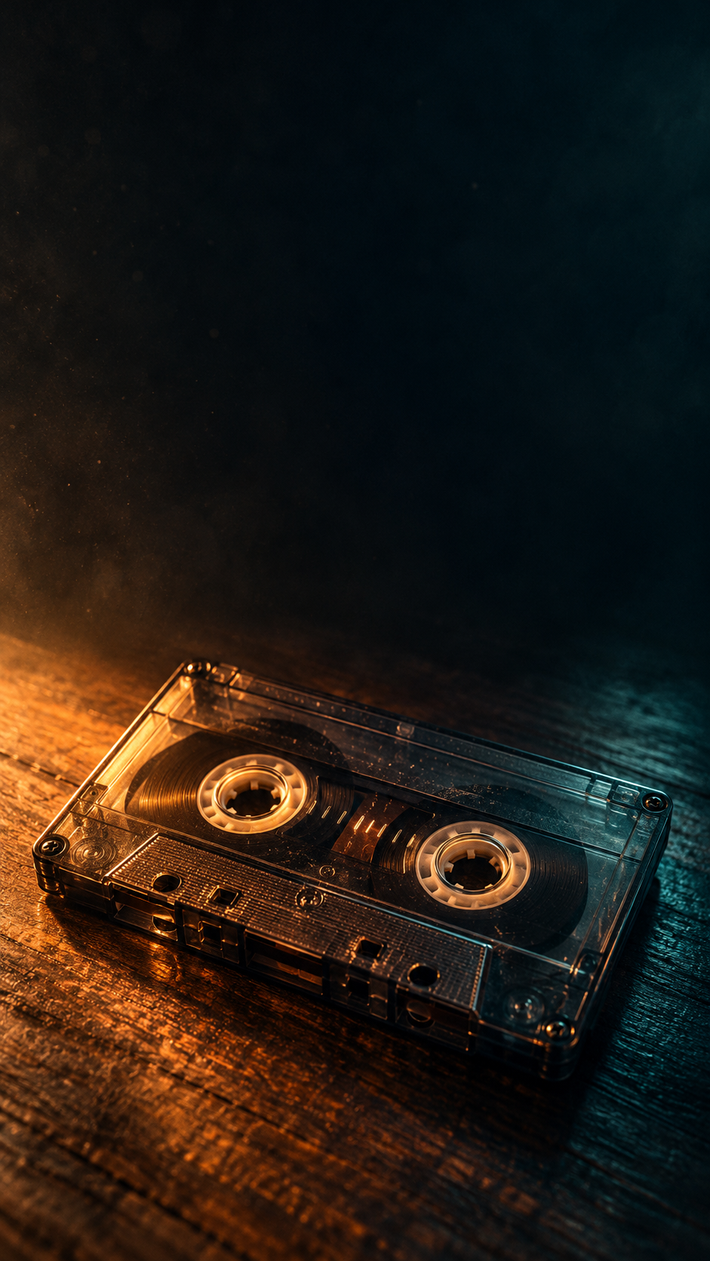
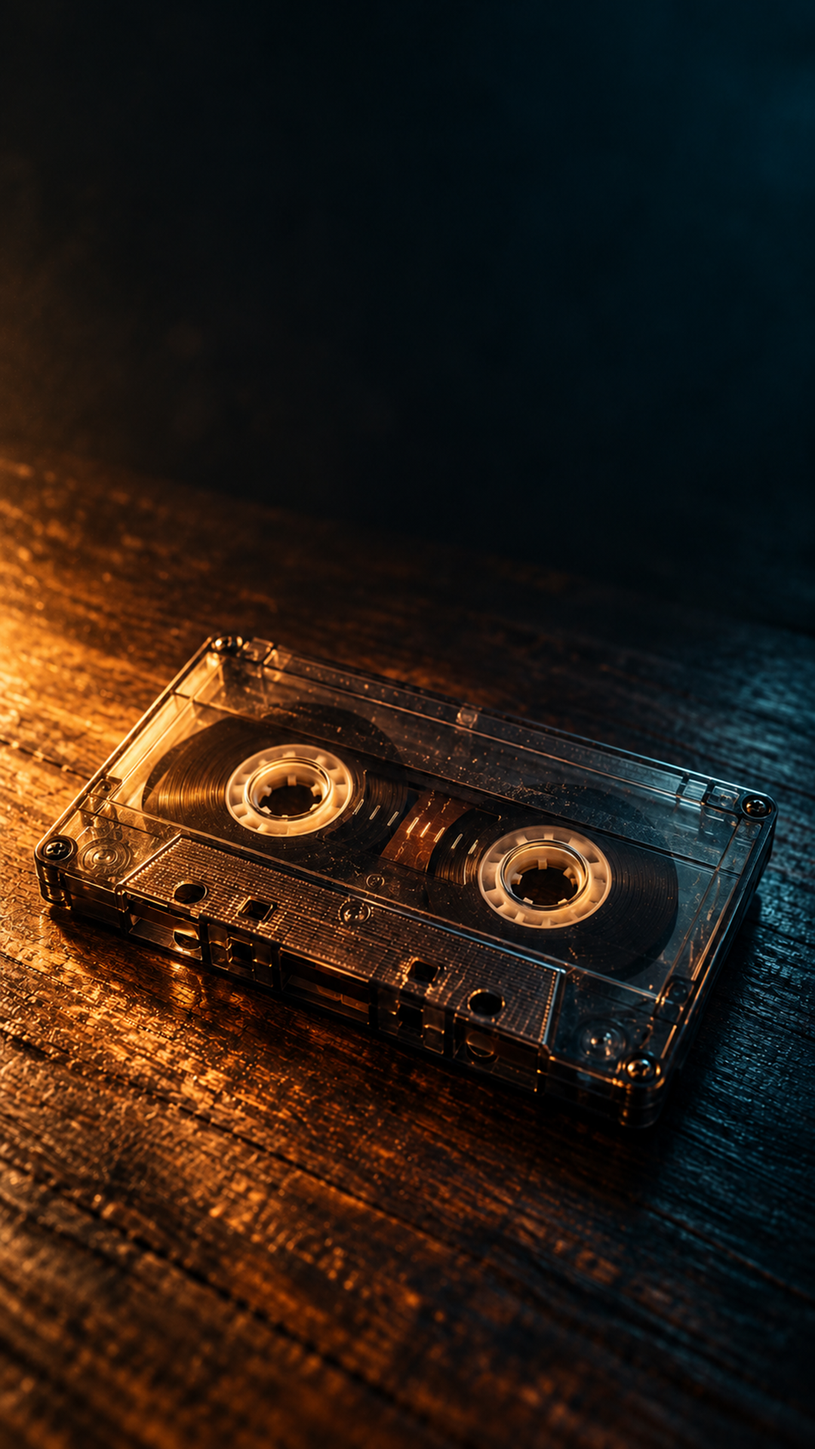
Atualiza seis artes Golden e identifica a versão 2.9.4

diff --git a/app/main.js b/app/main.js
@@ -52,7 +52,7 @@ function catalog(){return catalogView(state,{esc,btn,input,select,options,usageO
 function production(){if(!state.active){return `<div class="actions">${btn('collections','Preparar coletânea','','secondary')}</div><p class="lead">Retome qualquer etapa. Cada versão mantém seus próprios arquivos e publicações.</p>${state.productions.length?`<div class="grid">${state.productions.slice().reverse().map(p=>{const s=songOf(p);return `<article class="production-card"><span class="tag">V${p.version} · ${STATUS[p.status]}</span><h3>${esc(s.title)}</h3><p>${esc(s.artist)} · ${p.versionYear||s.year}</p><small>${assetsOf(p.id).length} arquivos · ${pubsOf(p.id).length} publicações</small><div class="actions">${btn('open-production','Abrir produção','data-id="'+p.id+'"','small')}</div></article>`;}).join('')}</div>`:empty('Ainda não há produções. Escolha uma música no catálogo.')}`;}
 const p=state.productions.find(x=>x.id===state.active);if(!p)return empty('Produção não encontrada.');const s=songOf(p),files=assetsOf(p.id);return `<div class="breadcrumbs">${btn('go-production','← Todas as produções','','link')} / ${esc(p.id.slice(0,8))} · V${p.version}</div><div class="section-head"><div><h2>${esc(s.title)}</h2><p class="muted">${esc(s.artist)} · ${s.year} <small>(${esc(s.yearMeaning||'ano informado')})</small></p></div><div class="actions">${btn('cover-production','Criar capa','data-id="'+p.id+'"')}${btn('new-version','Criar nova versão','data-id="'+p.id+'"','secondary')}${btn('cancel-production','Cancelar / liberar','data-id="'+p.id+'"','secondary')}</div></div><div class="steps">${['Escolha','Capa','Mídias','Edição','Revisão','Publicação','Acervo'].map((v,i)=>`<span class="${i<=Math.min(p.status,6)?'on':''}">${i+1}. ${v}</span>`).join('')}</div><form id="production-form" class="panel"><div class="form-grid">${select('stage','Etapa',Object.fromEntries(STATUS.map((v,i)=>[i,v])),p.status)}${input('versionYear','Ano da versão usada na capa',p.versionYear||s.year,'number','min="1960" max="2100" required')}${input('plannedDate','Data de produção planejada',p.plannedDate||today(),'date')}<label class="field">Observações / roteiro<textarea name="notes" id="notes">${esc(p.notes||'')}</textarea></label></div><small>As alterações são salvas automaticamente neste navegador.</small><div class="actions">${btn('save-production','Salvar agora','','small')}${btn('export-production','Exportar pacote para edição','data-id="'+p.id+'"','secondary small')}${btn('folder-manifest','Ver estrutura de pastas','data-id="'+p.id+'"','secondary small')}</div></form><section class="panel"><div class="section-head"><h2>Materiais e arquivos</h2>${btn('assemble-video','Montar vídeo','data-id="'+p.id+'"')}${btn('replace-clip','Substituir clipe','data-id="'+p.id+'"','secondary small')}${btn('source-import','Importar link / materiais locais','data-id="'+p.id+'"','secondary small')}${btn('approve-review','Registrar revisão','data-id="'+p.id+'"','secondary small')} </div><p class="muted">Anexos abaixo ficam neste navegador. Clipes guardados no serviço local aparecem em Montar vídeo ou Substituir clipe.</p><label class="field">Tipo do material<select id="asset-role">${options({cover:'Capa',audio:'Áudio',clip:'Clipe',image:'Imagem complementar',project:'Projeto CapCut / auxiliar',tiktok:'Vídeo final TikTok',youtube:'Vídeo final YouTube',text:'Legenda / descrição'},'image')}</select></label><div class="dropzone" id="dropzone"><label>Arraste arquivos aqui ou <input id="asset-upload" type="file" multiple></label><small>Arquivos no navegador: até 500 MB. Para vídeos maiores, use Acervo e programação e o cache do serviço local.</small></div>${files.map(assetRow).join('')||empty('Nenhum arquivo anexado. As novas versões preservam os arquivos anteriores.')}<details id="cover-trash" data-production-id="${esc(p.id)}"><summary>Capas na lixeira (recuperáveis)</summary><p>Bytes preservados neste navegador; continuam ocupando espaço. Restaurar mantém IDs e referências.</p>${state.assets.filter(a=>a.productionId===p.id&&a.role==='cover'&&a.trashedAt).map(assetRow).join('')||'<p>Nenhuma capa na lixeira.</p>'}</details></section><section class="panel"><h2>Preparar publicações</h2><p>Escolha plataforma e formato. Textos e registros são independentes; um MP4 compatível pode ser reutilizado.</p>${destinationPicker({id:'prepare-destination',context:'posting',productionId:p.id})}<details><summary>YouTube Music</summary><p>Distribuição musical exige áudio, metadados, direitos e distribuidor/parceiro. Upload de vídeo não garante entrada no catálogo do YouTube Music. Upload pessoal de áudio é privado para quem enviou, não distribui música ao público. Decisão de distribuição pendente.</p></details>${pubsOf(p.id).map(pub=>`<p>${esc(POST_DESTINATIONS[destinationOf(pub)]?.label||pub.platform)} · ${esc(publicationStatusLabel(pub.status))} · ${esc(pub.title)}</p>`).join('')}</section>`;}
 function assetRow(a){const p=state.productions.find(p=>p.id===a.productionId),s=p&&songOf(p),displayName=s?readableName(s.artist,s.title,a.role,a.version,a.name.split('.').pop()):a.name;let preview='';const url=mediaURL(a);if(a.type.startsWith('image/'))preview=`<img src="${url}" alt="${esc(a.originalName||a.name)}">`;if(a.type.startsWith('video/'))preview=`<video controls preload="metadata" src="${url}"></video>`;if(a.type.startsWith('audio/'))preview=`<audio controls preload="metadata" src="${url}"></audio>`;return `<div class="asset">${preview}<div class="info"><p><b>${esc(displayName)}</b></p><small>Original: ${esc(a.originalName||a.name)}<br>${esc(a.role==='license'?'Documento preservado':ASSET_FOLDERS[a.role]||a.role)} · V${a.version} · ${(a.size/1048576).toFixed(2)} MB<br>${new Date(a.createdAt).toLocaleString('pt-BR',{timeZone:'America/Sao_Paulo'})}</small></div>${!a.trashedAt&&a.coverConfig?btn('recover-cover','Editar esta versão','data-id="'+a.id+'"','secondary small'):''}${btn('download-asset','Baixar','data-id="'+a.id+'"','secondary small')}${a.role==='cover'?btn(a.trashedAt?'restore-cover':'trash-cover',a.trashedAt?'Restaurar capa':'Excluir capa','data-id="'+a.id+'"','secondary small'):''}</div>`;}
-function covers(){if(!state.cover){const draft=state.settings.find(s=>s.id==='coverDraft');state.cover=draft?.config||{title:'Take On Me',artist:'a-ha',year:'1985',style:'cassette',format:'vertical',font:104,x:.085,y:.23,text:'#f8f0df',accent:'#edc283',safe:false};state.coverProd=draft?.productionId||state.coverProd;}const c=state.cover;return `<p class="lead">Templates locais sem custo de API. Salve cada arte aprovada como uma nova versão da produção.</p><div class="template-family" aria-label="Família oficial de templates">${Object.entries(TEMPLATES).map(([id,t])=>`<button type="button" data-action="select-template" data-id="${id}" aria-pressed="${c.style===id}" class="template-card ${c.style===id?'selected':''}"><img src="${t.asset}" alt="" loading="lazy"><span>${esc(t.name)}</span></button>`).join('')}</div><div class="editor"><section class="panel"><form id="cover-form">${select('cover-production','Produção associada',{'':'Escolha uma produção',...Object.fromEntries(state.productions.map(p=>[p.id,songOf(p).title+' · V'+p.version]))},state.coverProd)}${input('cover-title','Nome da música',c.title)}${input('cover-artist','Artista',c.artist)}<div class="form-grid">${input('cover-year','Ano da versão',c.year)}${select('cover-style','Estilo',Object.fromEntries(Object.entries(STYLES).map(([k,v])=>[k,v[0]])),c.style)}${select('cover-format','Formato',{vertical:'TikTok / Shorts · 1080×1920',horizontal:'YouTube · 1280×720'},c.format)}${select('cover-family','Tipografia',{Arial:'Arial','Georgia':'Georgia','Verdana':'Verdana'},c.family||'Arial')}${input('cover-text','Cor do texto',c.text,'color')}${input('cover-accent','Cor de destaque',c.accent,'color')}${input('cover-font','Tamanho do título',c.font,'range','min="40" max="160"')}${input('cover-x','Posição horizontal',c.x,'range','min="0.04" max="0.35" step="0.01"')}${input('cover-y','Posição vertical',c.y,'range','min="0.15" max="0.55" step="0.01"')}</div><label class="field">Imagem própria de fundo<input id="cover-background" type="file" accept="image/*"></label><label><input id="cover-safe" type="checkbox" ${c.safe?'checked':''}> Mostrar margens de referência na prévia</label><p class="muted"><small>As margens não são exportadas. Nos Shorts, a plataforma pode permitir apenas selecionar um quadro do vídeo.</small></p></form><div class="actions">${btn('variation','Outra variação','','secondary')}${btn('download-cover','Baixar PNG')}${btn('download-jpg','Baixar JPG','','secondary')}${btn('approve-cover','Aprovar e guardar','','secondary')}</div><p id="cover-feedback" class="muted"></p></section><div class="preview"><canvas id="cover-canvas" width="1080" height="1920" aria-label="Prévia da capa"></canvas><small>Produção independente · identidade preservada</small></div></div>`;}
+function covers(){if(!state.cover){const draft=state.settings.find(s=>s.id==='coverDraft');state.cover=draft?.config||{title:'Take On Me',artist:'a-ha',year:'1985',style:'cassette',format:'vertical',font:104,x:.085,y:.23,text:'#f8f0df',accent:'#edc283',safe:false};state.coverProd=draft?.productionId||state.coverProd;}const c=state.cover;return `<p class="lead">Templates locais sem custo de API. Salve cada arte aprovada como uma nova versão da produção. Os fundos são verticais 9:16; no formato horizontal o fundo sofre recorte proporcional, sem esticar. Use um fundo horizontal próprio para preservar sua composição inteira.</p><div class="template-family" aria-label="Família oficial de templates">${Object.entries(TEMPLATES).map(([id,t])=>`<button type="button" data-action="select-template" data-id="${id}" aria-pressed="${c.style===id}" class="template-card ${c.style===id?'selected':''}"><img src="${t.asset}" alt="" loading="lazy"><span>${esc(t.name)}</span></button>`).join('')}</div><div class="editor"><section class="panel"><form id="cover-form">${select('cover-production','Produção associada',{'':'Escolha uma produção',...Object.fromEntries(state.productions.map(p=>[p.id,songOf(p).title+' · V'+p.version]))},state.coverProd)}${input('cover-title','Nome da música',c.title)}${input('cover-artist','Artista',c.artist)}<div class="form-grid">${input('cover-year','Ano da versão',c.year)}${select('cover-style','Estilo',Object.fromEntries(Object.entries(STYLES).map(([k,v])=>[k,v[0]])),c.style)}${select('cover-format','Formato',{vertical:'TikTok / Shorts · 1080×1920',horizontal:'YouTube · 1280×720'},c.format)}${select('cover-family','Tipografia',{Arial:'Arial','Georgia':'Georgia','Verdana':'Verdana'},c.family||'Arial')}${input('cover-text','Cor do texto',c.text,'color')}${input('cover-accent','Cor de destaque',c.accent,'color')}${input('cover-font','Tamanho do título',c.font,'range','min="40" max="160"')}${input('cover-x','Posição horizontal',c.x,'range','min="0.04" max="0.35" step="0.01"')}${input('cover-y','Posição vertical',c.y,'range','min="0.15" max="0.55" step="0.01"')}</div><label class="field">Imagem própria de fundo<input id="cover-background" type="file" accept="image/*"></label><label><input id="cover-safe" type="checkbox" ${c.safe?'checked':''}> Mostrar margens de referência na prévia</label><p class="muted"><small>As margens não são exportadas. Nos Shorts, a plataforma pode permitir apenas selecionar um quadro do vídeo.</small></p></form><div class="actions">${btn('variation','Outra variação','','secondary')}${btn('download-cover','Baixar PNG')}${btn('download-jpg','Baixar JPG','','secondary')}${btn('approve-cover','Aprovar e guardar','','secondary')}</div><p id="cover-feedback" class="muted"></p></section><div class="preview"><canvas id="cover-canvas" width="1080" height="1920" aria-label="Prévia da capa"></canvas><small>Produção independente · identidade preservada</small></div></div>`;}
 function publications(){const pubs=state.publications.filter(p=>!state.pubPlatform||p.platform===state.pubPlatform);let body='';if(state.pubLayout==='kanban'){body=`<div class="kanban">${STATUS.map((label,i)=>`<section class="lane"><h3>${label}</h3>${state.productions.filter(p=>p.status===i).map(p=>`<article><b>${esc(songOf(p).title)}</b><p>V${p.version}</p>${pubsOf(p.id).filter(pub=>!state.pubPlatform||pub.platform===state.pubPlatform).map(pub=>`<small>${pub.platform} · ${esc(pub.plannedAt?.slice(0,10)||'Sem data')}</small><br>`).join('')}${btn('open-production','Abrir','data-id="'+p.id+'"','small secondary')}</article>`).join('')||'<small>Sem produções</small>'}</section>`).join('')}</div>`;}else if(state.pubLayout==='calendar'){const month=state.calendarMonth||today().slice(0,7);const [year,m]=month.split('-').map(Number),days=new Date(year,m,0).getDate();body=`${input('calendar-month','Mês',month,'month')}<div class="calendar">${Array.from({length:days},(_,i)=>{const day=month+'-'+String(i+1).padStart(2,'0');return `<div class="day"><b>${i+1}</b>${pubs.filter(p=>(p.plannedAt||'').slice(0,10)===day).map(p=>`<article>${btn('edit-pub-id',esc(p.title),'data-id="'+p.id+'"','link')}<br>${esc(POST_DESTINATIONS[destinationOf(p)]?.label||p.platform)} · ${esc(publicationStatusLabel(p.status))}</article>`).join('')}</div>`;}).join('')}</div>`;}else body=pubs.length?`<div class="table-wrap"><table><thead><tr><th>Música / plataforma</th><th>Planejada</th><th>Situação / arquivo</th><th>Ações</th></tr></thead><tbody>${pubs.map(p=>`<tr><td><b>${esc(p.title)}</b><br>${esc(POST_DESTINATIONS[destinationOf(p)]?.label||p.platform)}</td><td>${esc(p.plannedAt?.replace('T',' ')||'Sem data')}</td><td>${esc(publicationStatusLabel(p.status))}<br><small>${p.finalAssetId||p.localRenderAssetId||p.serviceMediaId?'Vídeo associado':'Sem vídeo final'}</small></td><td><div class="actions">${btn('edit-pub-id','Editar','data-id="'+p.id+'"','small')}${btn('copy-publication','Copiar descrição','data-id="'+p.id+'"','secondary small')}${safeURL(p.url)?`<a href="${esc(safeURL(p.url))}" target="_blank" rel="noopener noreferrer">Abrir postagem</a>`:''}</div></td></tr>`).join('')}</tbody></table></div>`:empty('Prepare uma publicação dentro de uma produção.');return `${repostHistoryPanel()}${servicePublicationsPanel(pubs.filter(p=>['youtube','tiktok'].includes(p.platform)&&['youtube','tiktok'].includes(destinationOf(p))))}${deliveryPanel(pubs.filter(p=>['youtube','tiktok'].includes(p.platform)&&['youtube','tiktok'].includes(destinationOf(p))))}<p class="lead">Planejamento e registro manual assistido. Agendar aqui não envia conteúdo às plataformas.</p><div class="filters"><select id="pub-platform" aria-label="Plataforma">${options({'':'Todas as plataformas',...PLATFORMS},state.pubPlatform)}</select>${btn('pub-list','Lista','','secondary')}${btn('pub-kanban','Kanban','','secondary')}${btn('pub-calendar','Calendário','','secondary')}</div>${body}`;}
 function archive(){let items=state.assets.filter(a=>['tiktok','youtube'].includes(a.role));items=items.filter(a=>{const p=state.productions.find(p=>p.id===a.productionId),s=songOf(p);return normalize(`${s.title} ${s.artist} ${a.createdAt}`).includes(normalize(state.archiveQuery))&&(!state.archiveDecade||s.decade==state.archiveDecade)&&(!state.archivePlatform||a.role===state.archivePlatform)&&(!state.archiveStatus||(state.archiveStatus==='unpublished'?!pubsOf(p.id).some(pub=>pub.status==='published'):pubsOf(p.id).some(pub=>pub.status==='published')));});return `<p class="lead">Vídeos finais importados e suas versões. Nenhum arquivo anterior é substituído ao criar uma nova versão.</p><div class="filters"><input type="search" id="archive-search" value="${esc(state.archiveQuery)}" placeholder="Música, artista ou data" aria-label="Pesquisar acervo"><select id="archive-decade" aria-label="Década">${options({'':'Todas as décadas',1960:'Anos 60',1970:'Anos 70',1980:'Anos 80',1990:'Anos 90',2000:'Anos 2000'},state.archiveDecade)}</select><select id="archive-platform" aria-label="Plataforma">${options({'':'Todas as plataformas',tiktok:'TikTok',youtube:'YouTube'},state.archivePlatform)}</select><select id="archive-status" aria-label="Publicação">${options({'':'Todas as situações',published:'Publicados',unpublished:'Não publicados'},state.archiveStatus)}</select></div>${items.length?items.map(a=>{const p=state.productions.find(p=>p.id===a.productionId),s=songOf(p);return `<section class="panel"><div class="section-head"><h3>${esc(s.title)} — ${esc(s.artist)} · V${p.version}</h3><div class="actions">${btn('open-production','Ver produção','data-id="'+p.id+'"','secondary small')}${btn('new-version','Criar nova versão','data-id="'+p.id+'"','small')}</div></div>${assetRow(a)}</section>`;}).join(''):empty('Nenhum vídeo final encontrado. Importe um MP4 no Estúdio de produção.')}`;}
 function backup(){return `<p class="lead">Leve registros e arquivos juntos para outro computador. A restauração verifica referências e integridade dos arquivos antes de substituir os dados locais.</p><div class="columns"><section class="panel"><h2>Backup deste navegador</h2><p>Inclui catálogo, produções, anexos deste perfil, publicações, métricas e histórico, com verificação SHA-256. Não inclui SQLite, fontes e renders do serviço.</p>${btn('export-backup','Baixar backup ZIP')}<p class="note">Copie esse ZIP para seu Google Drive e para um armazenamento externo. Não há envio automático.</p></section><section class="panel"><h2>Restaurar backup</h2><p>Escolha um backup exportado pelo painel. O conteúdo atual só será substituído depois da validação e confirmação.</p><input type="file" id="restore-input" accept=".zip" aria-label="Selecionar backup ZIP"><p id="restore-feedback"></p></section></div>${storagePanel()}<section class="panel"><h2>Google Drive · estrutura organizada</h2><p>O pacote de cada produção usa pastas padronizadas para capas, áudios, clipes, CapCut, finais e documentos.</p>${btn('drive-structure','Baixar estrutura de pastas','','secondary')}<p class="muted">Integração OAuth não configurada. Exporte os pacotes e faça upload manual no Drive.</p><div id="storage-info"></div></section><section class="panel"><h2>Exportar controles</h2>${btn('export-records','Baixar catálogo e controle JSON','','secondary')} <small>Este arquivo contém os registros; para incluir anexos deste perfil, use o backup ZIP do navegador.</small></section>`;}

diff --git a/sw.js b/sw.js
@@ -1,1 +1,1 @@
-const VERSION='gmm-v2-f9d9661f28f4';const SHELL=['index.html','painel.html','app/main.js','app/destination-picker.js','app/cover-trash.js','app/repost-policy.js','app/repost-history.js','app/storage.js','app/rankings.js','app/collections.js','app/collection-plan.js','app/destinations.js','app/editorial.js','app/editorial-ui.js','app/editorial-store.js','app/version.js','app/build-info.js','app/source-import.js','app/video-assembly.js','app/render-assets.js','app/auto-inspection.js','app/media-names.js','app/search.js','app/metadata.js','app/catalog.js','app/publishing.js','app/service.js','app/operations.js','app/db.js','app/cover.js','app/backup.js','app/style.css','app/icon.svg','vendor/jszip.min.js','data/catalog.json','06_fundo_original.png','templates/vinyl.png','templates/cassette-alt.png','templates/neon.png','templates/stage.png','templates/romance.png','templates/minimal.png','manifest.webmanifest'];self.addEventListener('install',e=>{e.waitUntil(caches.open(VERSION).then(c=>c.addAll(SHELL)));self.skipWaiting()});self.addEventListener('activate',e=>e.waitUntil(caches.keys().then(keys=>Promise.all(keys.filter(k=>k.startsWith('gmm-v2-')&&k!==VERSION).map(k=>caches.delete(k)))).then(()=>self.clients.claim())));self.addEventListener('fetch',e=>{if(new URL(e.request.url).pathname.startsWith('/api/')||e.request.method!=='GET'||new URL(e.request.url).origin!==self.location.origin||e.request.headers.has('range')||/\.(mp4|zip)$/.test(new URL(e.request.url).pathname))return;e.respondWith(fetch(e.request).catch(()=>caches.match(e.request).then(c=>c||(e.request.mode==='navigate'?caches.match('painel.html'):null)).then(c=>c||Response.error())))});
+const VERSION='gmm-v2-9b2a38a5bd70';const SHELL=['index.html','painel.html','app/main.js','app/destination-picker.js','app/cover-trash.js','app/repost-policy.js','app/repost-history.js','app/storage.js','app/rankings.js','app/collections.js','app/collection-plan.js','app/destinations.js','app/editorial.js','app/editorial-ui.js','app/editorial-store.js','app/version.js','app/build-info.js','app/source-import.js','app/video-assembly.js','app/render-assets.js','app/auto-inspection.js','app/media-names.js','app/search.js','app/metadata.js','app/catalog.js','app/publishing.js','app/service.js','app/operations.js','app/db.js','app/cover.js','app/backup.js','app/style.css','app/icon.svg','vendor/jszip.min.js','data/catalog.json','06_fundo_original.png','templates/vinyl.png','templates/cassette-alt.png','templates/neon.png','templates/stage.png','templates/romance.png','templates/minimal.png','manifest.webmanifest'];self.addEventListener('install',e=>{e.waitUntil(caches.open(VERSION).then(c=>c.addAll(SHELL)));self.skipWaiting()});self.addEventListener('activate',e=>e.waitUntil(caches.keys().then(keys=>Promise.all(keys.filter(k=>k.startsWith('gmm-v2-')&&k!==VERSION).map(k=>caches.delete(k)))).then(()=>self.clients.claim())));self.addEventListener('fetch',e=>{if(new URL(e.request.url).pathname.startsWith('/api/')||e.request.method!=='GET'||new URL(e.request.url).origin!==self.location.origin||e.request.headers.has('range')||/\.(mp4|zip)$/.test(new URL(e.request.url).pathname))return;e.respondWith(fetch(e.request).catch(()=>caches.match(e.request).then(c=>c||(e.request.mode==='navigate'?caches.match('painel.html'):null)).then(c=>c||Response.error())))});

diff --git a/app/build-info.js b/app/build-info.js
@@ -1,2 +1,2 @@
 // Generated by npm run version:build; version source: package.json. Do not edit.
-export const BUILD_INFO=Object.freeze({"version":"2.9.3","interfaceBuild":"f9d9661f28f4","backendBuild":"190352994787"});
+export const BUILD_INFO=Object.freeze({"version":"2.9.4","interfaceBuild":"9b2a38a5bd70","backendBuild":"9598edb61b77"});

diff --git a/docs/ORGANIZACAO_PROJETO.md b/docs/ORGANIZACAO_PROJETO.md
@@ -4,22 +4,30 @@
 
 **Entrega visual complementar concluída — 25/10/2026:** fonte002 preservada; YouTube horizontal V2 e TikTok V3 com fundo desfocado aprovados no acervo, sem substituir versões anteriores. Capas3s, CTAs30/70/110 e áudio conferidos. A tentativa TikTok anterior cancelada aos80% foi preservada; a nova tentativa expressamente autorizada concluiu sem alteração dos limites existentes. Causa histórica não determinada. Amostra de movimento suave8s concluída, opcional e separada dos finais; avaliação editorial pendente, sem impedir desempenho. Explorer confirmado aberto após liberação nativa. Nenhuma postagem externa.
 
-## Prioridades pendentes vigentes — atualização de 25/10/2026
+## Prioridades vigentes - atualização de 25/10/2026
 
-**Atualização vigente: 2.9.3 ativa localmente.** Esta é a fila oficial a consultar antes de qualquer trabalho. Atualização mais recente: 2.9.3 ativa localmente, preservando as entregas2.9.2, incluindo Substituir clipe e Manter enquadramento original. Checkpoint 2.9.0 preservado. Substitui a sequência anterior dos dez itens, preservada abaixo como histórico de entregas. Validações humanas e autorizações externas continuam separadas; ausência delas não impede trabalho independente já autorizado. Enquanto Ricardo produz, não reiniciar serviço, recarregar abas, alterar seu job ou iniciar benchmarks/testes pesados.
+**Lista oficial única, na ordem comunicada ao titular. Versão2.9.4 ativa localmente**, interface9b2a38a5bd70/backend9598edb61b77, em127.0.0.1:8877. Site público permanece2.9.3; não houve novo commit/push/deploy nesta etapa. Entregas concluídas e vídeos aprovados ficam fora da fila, preservados no histórico abaixo. Validações humanas/externas não bloqueiam trabalho independente autorizado.
 
-| Prioridade | Trabalho pendente | Condição e estado atual |
+| Prioridade | Trabalho | Estado concreto e próximo passo |
+|---|---|---|
+| 1 | Substituir artes correspondentes do ZIP fotográfico Golden | CONCLUÍDO localmente2.9.4: seis fundos substituídos, anteriores recuperáveis por backup/hash; sete arquivos recebidos/seis únicos, rádio12 idêntico ao05 não instalado duas vezes. Vinil13 corresponde visualmente ao Minimalista; Vinil clássico preservado por não haver equivalente no ZIP.15 verificações de templates, sete exportações horizontais proporcionais e10 de versão passaram; inspeção visual vertical/horizontal e seis hashes servidos conferidos. Horizontal mantém recorte proporcional informado, sem esticar; composição inteira pode usar fundo horizontal próprio. Nenhum MP4/capa aprovada regenerado. Ver TEMPLATES.md |
+| 2 | Catálogo/rankings existente: Top10/30/50 e Top100 geral | PARCIAL, próxima atividade independente:850 posições documentadas (750 anuaisGB +100 referênciaGB),2.009 registros, dois vínculos e zero músicas novas. Cinco PDFs CHARTWATCH existentes conferidos;150 linhas2000–2004 extraídas em arquivo candidato separado, AINDA NÃO VALIDADAS nem somadas: corrigir leitura de DJ Ötzi, separador interno de Ignition Remix e acentos, revisar todas antes de comparar/promover staging. Original850/quarentena2004/catálogo intactos. Faltam25anos/750posições até validar esse lote; depois permanecerão1960–1979/600posições. Top100 geral exige fonte/critério; Top50 exige ampliar cobertura. Não importar em produção por inferência. Ver RANKINGS_CATALOGO.md |
+| 3 | Capas históricas de álbuns/gravações | AGUARDANDO BINÁRIOS: índices disponíveis, pacoteV3 não localizado nas áreas autorizadas do projeto/Downloads. Disponibilizar capas/ correspondente ao índice e manifestos; não repetir busca/auditoria documental nem acessar a outra tarefa. Artes Golden do item1 não substituem esse acervo histórico |
+| 4 | Cópia externa do backup composto | AGUARDANDO AUTORIZAÇÃO ESPECÍFICA: destino04_CONTROLE_E_BACKUPS confirmado somente por leitura na conta ric.hussen@gmail.com, vazio na consulta, proprietário e ausência de permissão pública retornada conferidos. Nenhum upload, compartilhamento ou credencial nova. Backups locais compostos preservados. Ver ARMAZENAMENTO_BACKUP.md |
+| 5 | Avaliar amostra de movimento suave | AGUARDANDO AVALIAÇÃO HUMANA da amostra8s já entregue; não aplicar a todo o acervo nem regenerar vídeos aprovados |
+| 6 | Integração Google Drive do aplicativo | PARCIAL: plano/fila e mocks existentes; OAuth do aplicativo não configurado. Conexão do assistente não configura o painel. Autorizações específicas e homologação real pendentes; nenhuma mudança de acesso/envio |
+| 7 | Integrações de publicação | PARCIAL: backend/mocks revisados, sem contas/envios reais; destinos manuais preservados. Flags externas OFF e rotina preservada. Credenciais/homologação dependem de autorização; YouTube Music sem upload genérico |
+
+## Entregas concluídas anteriores - fora da fila pendente
+
+O quadro abaixo conserva as referências da fila anterior; seus números são históricos, não uma segunda ordem de execução.2.9.3 já entregue, sem reabrir testes/renderizações concluídos. TikTokV3 e YouTube horizontalV2 com desfoque continuam aprovados, fontes e versões anteriores intactas.
+
+| Ordem anterior | Entrega concluída | Evidência preservada |
 |---|---|---|
 | 1 | Montar vídeo, visual e clareza do catálogo | Entregue e ativo localmente em 2.9.2: capa compatível/criação no modal, recuperação/Aprovar prévia e salvar no acervo/Descartar prévia e lixeira recuperável de vídeo gerado (inclusive publicado), nome musical, TikTok/YouTube + Outros destinos, estados PT-BR e década distinta de ordenação. Ranking só com fonte/mercado/ano e cobertura parcial; Top 50 indisponível. Complementos ativos: Substituir clipe no Estúdio, origem dos arquivos identificada e Manter enquadramento original sem crop/stretch/blur (conteúdo proporcional, margens simples informadas, resolução do preset). Backend80, montagem32, histórico22, editorial53, versão10 e regressão completa aplicável passaram. Render real sintético vertical/horizontal, frames/áudio/duração/cancelamento também passou. Chrome habitual confirmou versão e lixeira. Inclui lixeira recuperável de capas e atualização de materiais ao fechar montagem. Dois alvos reais confirmados por leitura, backup do navegador/serviço preservado; as duas capas reais V1/V2 solicitadas foram retiradas das seleções para lixeira recuperável pela UI, sem apagar bytes. Ver ENTREGA_MONTAGEM_HISTORICO.md |
 | 2 | Histórico por música/plataforma/conta e alertas de repostagem | Entregue e ativo localmente em 2.9.2. Publicações e estruturas existentes, conta/canal explícito como rótulo local, aviso configurável e decisão explícita, correção auditada, legados identificados e reúso do MP4. Rotina/cooldown preservados, nenhuma conta externa/publicação real. Avaliação humana após ativação segura |
-| 3 | Auditoria e proposta de aplicação das capas do outro chat | Aguardar achados do principal sobre INDICE_CAPAS.csv, CAPAS_PENDENTES.csv e CONTINUIDADE_DO_ACERVO.md. Não baixar pacotes, trocar artes atuais ou implementar uso das capas nesta rodada |
 | 4 | Desempenho de render e integrada | Entregue e ativo localmente em2.9.3: CPU4/filtros2 com guarda8lógicos/3GiB e opçãoCPU2/filtros1, fallback único para erro de criação de threads e reaproveitamento de renders legados. Benchmark vertical/horizontal ~30–40% menos tempo em amostras curtas, qualidade medida equivalente/RAM ~41MiB maior. AMF testado mas não escolhido. Regressões backend e cinco suítes UI passaram; timeout da lixeira corrigido preservando seção aberta durante atualização. Falhas internas de limite agora distintas de cancelamento manual. Ver DESEMPENHO_RENDER.md; ganhos não universais |
 | 5 | Ativação, validação operacional, commit/push/deploy autorizados | 2.9.3 ativa localmente: interfacef9d9661f28f4/backend190352994787, mesmo endereço8877, sessão/dados preservados. Backups compostos serviço23arquivos + navegador8anexos/hashes + configuração protegida verificados. Flags externas OFF; rotina preservada. Software commit48f1c60 enviado por fast-forward às duas branches; Pages [40167149794](https://github.com/RicardoHussen2026/golden-music-memories/actions/runs/40167149794) build/deploy success e frontend público2.9.3 conferido (busca e8recursosHTTP200). Node permanece local; nenhuma mídia privada no Git. Cópia externa permanece pendência humana |
-| 6 | Ampliar acervo e rankings Top 10 / 30 / 50 e Top 100 geral | PARCIAL, não excluído nem concluído: 850 posições no staging (750 anuais GB + 100 de referência GB), 2.009 registros no catálogo, dois vínculos e zero músicas novas aplicadas. Faltam 25 anos/750 posições anuais, identificação dos candidatos e critério do Top 100 geral. Top 50 amplia a pesquisa anterior além de 30 por lista; não há cobertura Top 50 pronta. PDFs CHARTWATCH preservados, 150 posições ainda não transcritas/incorporadas. Nenhuma pesquisa/importação nesta rodada |
-| 7 | Google Drive | Plano/fila isolados com mocks; autorizações e integração real pendentes |
-| 8 | Integrações de publicação | Backend revisado, sem conta/envio real; demais destinos manuais |
-
-
 
 Registro histórico das atualizações recebidas antes da ativação: separar Filtrar por década de Ordenar por; não usar relevância como ranking. Seleção de fonte/limite e década persiste no navegador. Top 50 permanece desabilitado com motivo e cobertura visível. Substituir clipe está pronto apenas na cópia 2.9.1; o caminho existente Montar vídeo → Clipe do acervo ou Ou importar clipe deste computador permite escolher outra fonte, sem excluir a anterior. A listagem de anexos IndexedDB não representa todos os clipes guardados no serviço. Esclarecimento recebido: o alvo é resultado gerado a partir da prévia, já salvo e usado em postagem manual. Foram preparados três fluxos distintos: aprovar sem render novo; descartar tentativa; excluir vídeo gerado para lixeira recuperável com impacto/referências compartilhadas e restauração, inclusive se publicado. Fonte, configurações, bytes, IDs e histórico permanecem; excluir localmente não apaga postagem externa. Para MP4 ainda não há alvo inequívoco e nenhum foi removido; pedido posterior identificou duas CAPAS, retiradas pela UI para lixeira recuperável após atualização autorizada. Capas de outro chat aguardam análise do principal.
 

diff --git a/docs/TEMPLATES.md b/docs/TEMPLATES.md
@@ -1,6 +1,6 @@
 # Família oficial de templates
 
-O cassete aprovado continua como base oficial, ID `cassette`, fundo `06_fundo_original.png`. Nenhuma arte V1 foi substituída.
+O cassete aprovado continua como base oficial, ID `cassette`, fundo `06_fundo_original.png`. Em25/10/2026 o titular autorizou substituir as artes correspondentes pelo pacote fotográfico; os IDs e as composições editáveis foram preservados. As artes anteriores continuam recuperáveis no backup privado da troca.
 
 | ID | Modelo | Composição |
 |---|---|---|
@@ -31,3 +31,34 @@ Direção comum dos prompts: fotografia vertical 9:16 dark premium, preto profun
 ## Verificação
 
 `tests/templates.cjs` percorre a seleção real no painel, edita os campos, exporta os sete PNGs, verifica dimensões, persistência após recarga, JPG, aprovação com configuração e arquivo, responsividade e disponibilidade offline. `docs/familia-templates.png` mostra exportações reais do editor; os arquivos de teste são isolados do acervo do operador.
+
+## Conferência complementar de artes recebidas — 25/10/2026
+
+### Substituição autorizada e ativada localmente — 2.9.4
+
+Após a conferência inicial abaixo, o titular autorizou a troca das artes correspondentes. A correspondência foi feita pela composição visual e pelo motivo representado, não apenas pelo nome do arquivo:
+
+| Arte recebida | Arquivo do aplicativo substituído | Modelo preservado |
+|---|---|---|
+| GMM_07_CASSETE_DEITADA.png | 06_fundo_original.png | cassette |
+| GMM_09_CASSETE_EM_PE.png | templates/cassette-alt.png | premium-cassette |
+| GMM_10_SINTETIZADOR_VINTAGE.png | templates/neon.png | premium-neon |
+| GMM_04_MICROFONE_VINTAGE.png | templates/stage.png | premium-stage |
+| GMM_05_RADIO_VINTAGE.png | templates/romance.png | premium-romance |
+| GMM_13_VINIL_DOURADO.png | templates/minimal.png | premium-minimal |
+
+O motivo de vinil dourado do pacote corresponde ao fundo Minimalista existente. O toca-discos do Vinil clássico não tem equivalente no ZIP, portanto `templates/vinyl.png` permanece intacto. O rádio12 é idêntico ao05 e não foi instalado uma segunda vez. As seis artes novas têm1080×1920; as anteriores e seus hashes estão guardados em `.cache/artes-294/anteriores`, com mapa de recuperação em `substituicoes.json`, sem apagar fontes ou versões.
+
+A renderização existente mantém a proporção, com preenchimento e recorte no horizontal, sem esticar. O editor agora informa esse comportamento e orienta usar fundo horizontal próprio para preservar a composição inteira. A alternativa de composição inteira demonstrada no piloto continua proposta, não implementação. IDs, tipografia e posições editáveis foram mantidos. Capas já exportadas/aprovadas e MP4 não são regravados pela troca dos fundos; ao reeditar um template, conferir a prévia e salvar nova versão.
+
+Validação atual:15 verificações de templates passaram, cobrindo sete exportaçõesPNG, edição/JPG, persistência, aprovação em dados isolados, celular e offline. Sete exportações horizontais1280×720 tiveram proporção de desenho conferida sem stretch e inspeção visual.10 verificações de versão passaram. Serviço local8877 reiniciado após zerojobs, sem recarregar abas habituais; frontend2.9.4/interface9b2a38a5bd70 e backend2.9.4/9598edb61b77 correspondem, saúde200 e SQLite íntegro/contagens preservadas. Seis hashes servidos e hashes dos dois MP4 aprovados conferidos. Evidências em `.cache/artes-294/`; galeria atual em `familia-templates.png`. Site público continua2.9.3, sem commit/push/deploy nesta etapa.
+
+### Recepção inicial e piloto — histórico anterior à autorização de troca
+
+O pacote `GMM_CAPAS_ESTILO_FOTOGRAFICO_1080x1920.zip` foi encontrado em Downloads e conferido sem alterar os originais: sete PNGs 1080×1920, todos decodificados pelo FFmpeg, com hashes correspondentes aos arquivos extraídos. São seis imagens distintas: `GMM_05_RADIO_VINTAGE.png` e `GMM_12_RADIO_VINTAGE.png` têm bytes idênticos. Nenhuma duplicata foi removida. São artes de identidade Golden com instrumentos e espaço para texto, não capas históricas vinculadas a gravações. O pacote não inclui documento de procedência/licença; aparência fotográfica não comprova origem ou direitos.
+
+Um piloto isolado reutilizou `drawCover` e textos fictícios, sem dados operacionais: vertical 1080×1920 e duas composições horizontais 1280×720. O preenchimento horizontal direto de uma arte 9:16 mostra somente cerca de 31,64% de sua altura; é o recorte previsto pelo preenchimento, não defeito de codificação. A proposta alternativa conserva a imagem inteira à direita, com fundo derivado desfocado e texto à esquerda. Essa composição existe somente no piloto; o editor não foi modificado e nenhuma arte/template atual foi substituído. Avaliação visual humana precede eventual adoção.
+
+Evidências privadas fora do Git: `.cache/capas-verificacao/`, com manifesto/hash, resultado de sete decodificações, comparativo visual e três exportações do piloto. As artes podem servir à identidade Golden, miniaturas e fundos de capas; não devem ser associadas automaticamente como capa de álbum.
+
+O acervo histórico é outro conjunto. Os índices recebidos descrevem a consolidação V3 e caminhos `capas/<decada>s/<sha256>.<ext>`, mas os binários correspondentes não foram localizados nos locais autorizados verificados do projeto e Downloads. Não foi acessada a outra tarefa de pesquisa. A conferência documental anterior não foi refeita nem os números do relatório V2 tratados como validação de imagens V3. Para avançar, disponibilizar o diretório `capas/` correspondente ao índice atual em local autorizado; `MANIFESTO_IMAGENS.csv`, `RESUMO_ACERVO.json` e evidências/revisões da mesma entrega permitem a conciliação completa. Até lá, vínculos, dimensões, integridade e aplicação das capas históricas continuam pendentes.

diff --git a/CONTINUIDADE.md b/CONTINUIDADE.md
@@ -1,5 +1,9 @@
 # Continuidade do Golden Music Memories
 
+**Estado vigente — artes2.9.4,25/10/2026:** seis fundos correspondentes do ZIP autorizado substituídos com backup/hash das anteriores em .cache/artes-294/anteriores. Vinil clássico preservado; rádio05/12 idênticos, sem duplicação; Vinil13 aplicado ao Minimalista por correspondência visual. Backend/frontend locais alinhados9b2a38a5bd70/9598edb61b77, saúde200, zerojobs antes da troca, SQLite íntegro/contagens preservadas, hashes de TikTokV3/YouTubeV2 inalterados.15 verificações templates, sete horizontais sem esticar e10 versão passaram; galeria visual inspecionada. Abas habituais não recarregadas, nenhum vídeo regenerado. Público continua2.9.3; sem commit/push/deploy nesta etapa. Ranking:150linhas candidatas extraídas, com erros de leitura identificados e revisão pendente; não somadas às850 válidas nem importadas,2.009 registros intactos. Lista oficial reordenada conforme titular; backup externo continua sem autorização de envio.
+
+**Conferência de capas — 25/10/2026, após release2.9.3:** concluída a recepção limitada aos locais autorizados, sem reabrir release ou renderizar vídeos aprovados. Os índices históricos estão disponíveis, mas falta o pacote binário V3 correspondente para a conferência de imagens/vínculos. Separadamente, sete artes Golden recebidas foram decodificadas e comparadas por hash (seis imagens distintas, rádios05/12 idênticos); piloto vertical/horizontal isolado concluído, sem importação ou substituição de templates. Ver docs/TEMPLATES.md e lista oficial. Destino04_CONTROLE_E_BACKUPS confirmado somente por leitura; pasta vazia, conta proprietária confirmada, nenhum upload/compartilhamento alterado. Evidências privadas em .cache/capas-verificacao/. Amostra de movimento permanece aguardando avaliação humana. Próxima ação das capas históricas depende de disponibilizar os binários no projeto ou outro local autorizado; não acessar a outra tarefa de pesquisa por inferência.
+
 **Estado vigente — 2.9.3, 25/10/2026:** atualização local ativada, interface f9d9661f28f4/backend 190352994787, saúde200, SQLite íntegro e contagens preservadas. CPU adaptativa com opção conservadora/fallback testados; AMF desligado. Renders existentes reaproveitados sem exigir nova montagem por mudança de CPU. TikTok V3 e YouTube horizontal V2 com fundo desfocado concluídos e aprovados; amostra de movimento estático é opcional e separada. Backups do serviço23arquivos e navegador8anexos verificados, configuração protegida à parte. publicação do software concluída e conferida no GitHub Pages (commit48f1c60; build/deploy40167149794 aprovados). Pages oferece a interface estática, sem hospedar Node ou dados privados; detalhes em docs/DESEMPENHO_RENDER.md e lista oficial. Os estados anteriores abaixo são históricos, preservados para rastreabilidade.
 
 **Release 2.9.2 — 25/10/2026:** frontend e backend locais ativados após confirmação do proprietário, sem jobs ativos; interface 65153bfb9a0d/backend 70f8f9368ab6, HTTP 200, contagens preservadas e SQLite íntegro. Frontend público 2.9.2 publicado e conferido: commit de software9fd42d0, GitHubPages build/deploy aprovados. Busca/filtro/capa horizontal e oito recursos HTTP200 verificados no endereço público. Não é hospedagem do serviço Node. As duas capas V1/V2 solicitadas foram movidas pela UI para lixeira recuperável; arquivos, IDs, fontes, MP4 e histórico preservados. Não foi feita nova edição/render do vídeo real salvo pelo proprietário. Backups compostos privados fora do Git; deploy não os inclui.

diff --git a/README.md b/README.md
@@ -1,5 +1,7 @@
 # Golden Music Memories
 
+**Artes2.9.4 —25/10/2026:** seis fundos correspondentes do ZIP do titular substituídos com backup privado das anteriores; IDs/templates preservados, Vinil clássico intacto e rádio duplicado não instalado duas vezes. Ativa localmente em8877, interface9b2a38a5bd70/backend9598edb61b77, saúde200.15 verificações templates, sete exportações horizontais proporcionais e10 versão passaram; hashes dos dois MP4 aprovados/contagens preservados. Publicação do software autorizada em andamento; não publica mídias privadas ou vídeos nas redes. Detalhes em docs/TEMPLATES.md e lista oficial.
+
 **Estado vigente — 2.9.3, 25/10/2026:** atualização local ativada, interface f9d9661f28f4/backend 190352994787, saúde200, SQLite íntegro e contagens preservadas. CPU adaptativa com opção conservadora/fallback testados; AMF desligado. Renders existentes reaproveitados sem exigir nova montagem por mudança de CPU. TikTok V3 e YouTube horizontal V2 com fundo desfocado concluídos e aprovados; amostra de movimento estático é opcional e separada. Backups do serviço23arquivos e navegador8anexos verificados, configuração protegida à parte. publicação do software concluída e conferida no GitHub Pages (commit48f1c60; build/deploy40167149794 aprovados). Pages oferece a interface estática, sem hospedar Node ou dados privados; detalhes em docs/DESEMPENHO_RENDER.md e lista oficial. Os estados anteriores abaixo são históricos, preservados para rastreabilidade.
 
 **Release 2.9.2 — 25/10/2026:** frontend e backend locais ativados após confirmação do proprietário, sem jobs ativos; interface 65153bfb9a0d/backend 70f8f9368ab6, HTTP 200, contagens preservadas e SQLite íntegro. Frontend público 2.9.2 publicado e conferido: commit de software9fd42d0, GitHubPages build/deploy aprovados. Busca/filtro/capa horizontal e oito recursos HTTP200 verificados no endereço público. Não é hospedagem do serviço Node. As duas capas V1/V2 solicitadas foram movidas pela UI para lixeira recuperável; arquivos, IDs, fontes, MP4 e histórico preservados. Não foi feita nova edição/render do vídeo real salvo pelo proprietário. Backups compostos privados fora do Git; deploy não os inclui.

diff --git a/docs/ARMAZENAMENTO_BACKUP.md b/docs/ARMAZENAMENTO_BACKUP.md
@@ -1,6 +1,12 @@
 # Armazenamento e recuperação local — V2.8.0
 
-Entrega do item 8, 25/10/2026. Código preparado e testado em ambiente isolado. A ativação operacional está adiada enquanto Ricardo testa o baixador na versão 2.7.2; não reiniciar serviço nem recarregar suas abas. A lista única de execução permanece em [ORGANIZACAO_PROJETO.md](ORGANIZACAO_PROJETO.md).
+Registro inicial do item 8, 25/10/2026: código então preparado e testado em ambiente isolado, com ativação adiada durante o teste do baixador na 2.7.2. Esse estado inicial é histórico. Na release2.9.3, a atualização local e a verificação dos backups compostos foram concluídas; a cópia externa continua pendente. A lista única de execução permanece em [ORGANIZACAO_PROJETO.md](ORGANIZACAO_PROJETO.md).
+
+## Destino externo identificado — consulta de 25/10/2026
+
+A pasta existente **04_CONTROLE_E_BACKUPS**, dentro de Golden Music Memories no Drive da conta `ric.hussen@gmail.com`, foi confirmada por leitura de perfil, metadados e listagem. Estava vazia nessa consulta. A permissão retornada identifica essa conta como proprietária; nenhuma permissão pública foi retornada. O conector informa capacidade de compartilhar, mas não expôs separadamente capacidade de adicionar arquivos; nenhum envio foi testado. Não houve upload, novo compartilhamento ou alteração de acesso. Identificadores e metadados da consulta estão em `.cache/capas-verificacao/drive-leitura.json`, fora do Git.
+
+Esse acesso do assistente não configura a integração do aplicativo: OAuth do painel continua não configurado. A cópia externa precisa de ação expressamente autorizada, definição dos componentes e tratamento privado da configuração/chave. Não enviar apenas o ZIP do navegador como se fosse backup integral, nem sincronizar SQLite aberto. A existência da pasta e a propriedade confirmada não comprovam uma cópia externa concluída.
 
 ## Onde ficam os dados
 
